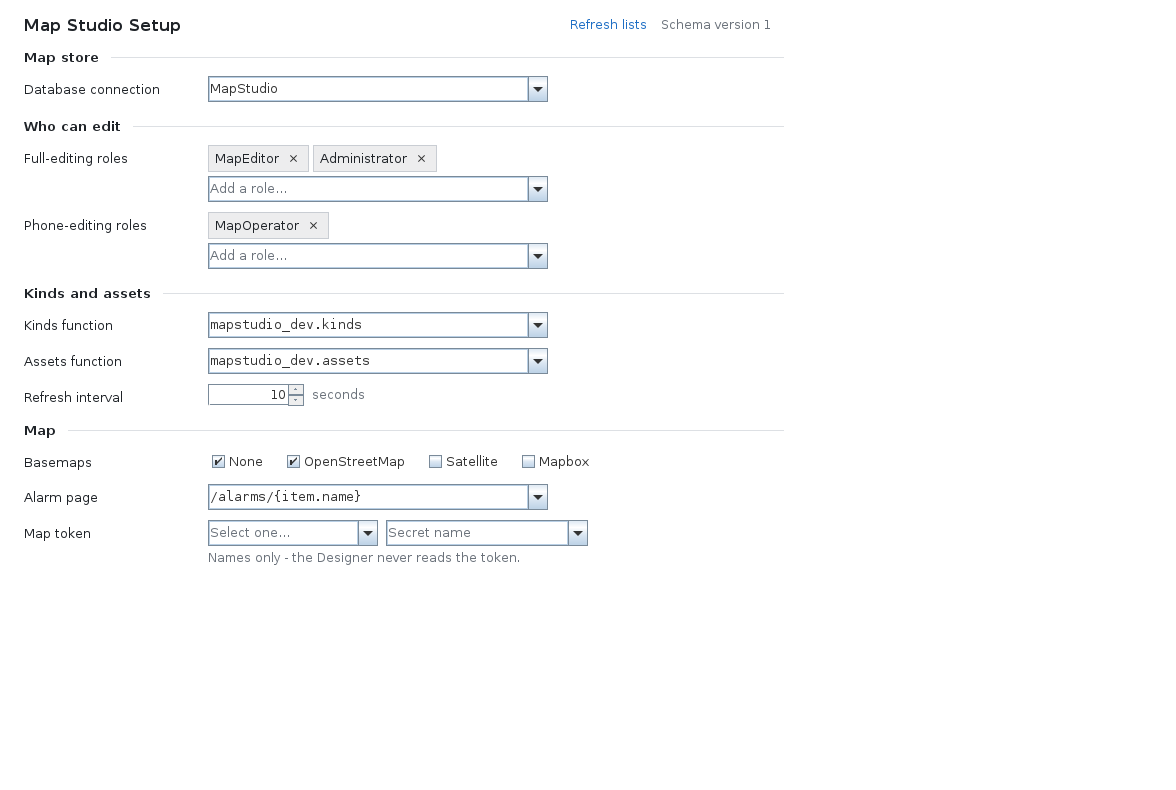
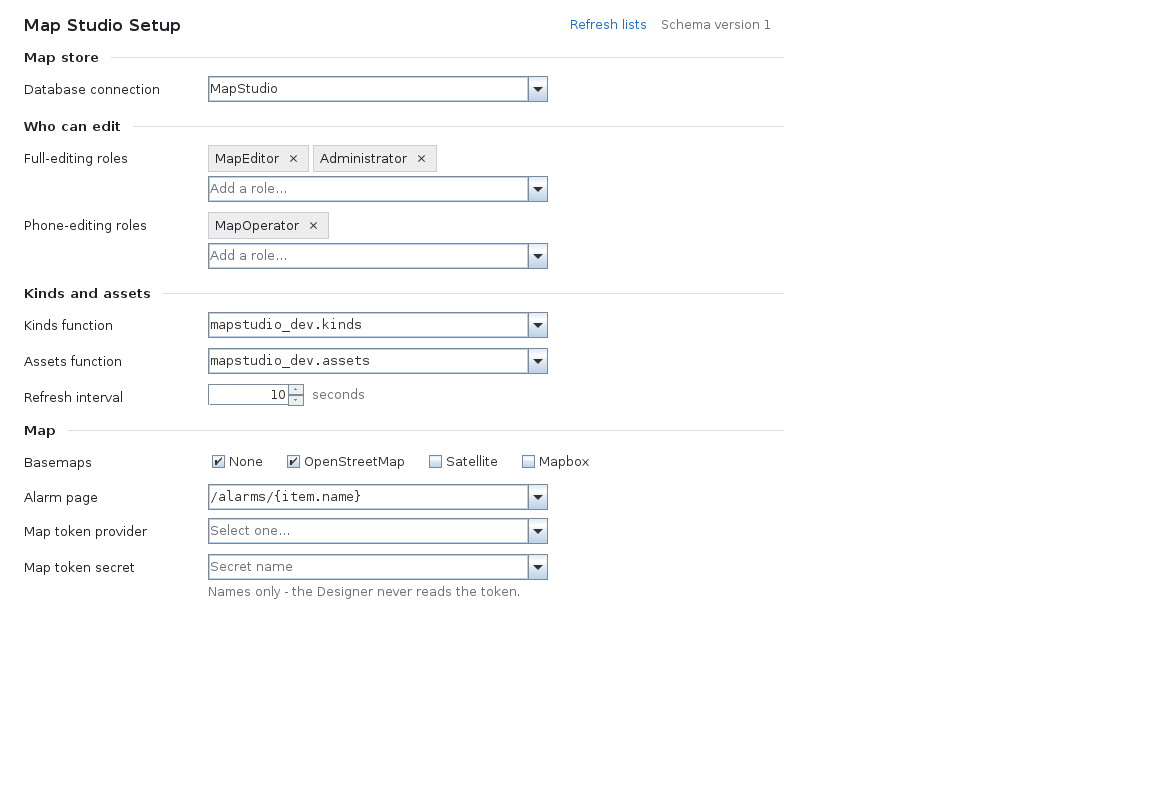
Owner review notes 4, 10, 31, 25 (the check): the dev page's empty-map hint, the showcase restores its states on open, the Designer's Map token as two rows, the contrast check over the quiet tile; e2e specs for 22, 25, 29, 32, 4 and 10 (work in progress)
Claude-Session: https://claude.ai/code/session_01F9eVq2cpkcDNszUXqy4YfF

Changed region(s): [[0.1531, 0.638, 0.5204, 0.7595], [0.0306, 0.6684, 0.1224, 0.7291]]

diff --git a/web/typescript/MapStudio.tsx b/web/typescript/MapStudio.tsx
@@ -1462,6 +1462,8 @@ export class MapStudio extends Component<Props, MapStudioState> {
         el.setAttribute('data-basemap-status', status);
         el.setAttribute('data-basemap-tiles', this.tiles);
         el.setAttribute('data-basemap-paint', JSON.stringify(rasterPaint(b.selected)));
+        // What OpenStreetMap is drawn with whatever the choice (item 25), for the contrast check's quiet raster sample.
+        el.setAttribute('data-quiet-paint', JSON.stringify(rasterPaint('osm')));
     }
 
     /**

diff --git a/designer/src/main/java/com/aoindustrial/perspective/mapstudio/designer/setup/SetupPanel.java b/designer/src/main/java/com/aoindustrial/perspective/mapstudio/designer/setup/SetupPanel.java
@@ -118,6 +118,12 @@ public final class SetupPanel extends JPanel {
     private final FormParts.Column empty = new FormParts.Column(Theme.FORM_MAX, Theme.TAB_PADDING, 8, 24);
     private final JButton create = new JButton(SetupForm.msg("setup.empty.create"));
 
+    /**
+     * The key of the second map token row (the secret name; item 31). Not a setup field: the value is
+     * {@link SetupForm#TOKEN_SECRET}, and the row takes the token warnings about the name.
+     */
+    static final String TOKEN_SECRET_NAME = SetupForm.TOKEN_SECRET + ".name";
+
     // Fields
     private final Map<String, FormParts.Row> rows = new LinkedHashMap<>();
     private final PickerField connection = new PickerField(this::connectionItems, false);
@@ -134,7 +140,6 @@ public final class SetupPanel extends JPanel {
     private final PickerField alarmPage = new PickerField(this::pageItems, true);
     private final PickerField provider = new PickerField(this::providerItems, false);
     private final PickerField secretName = new PickerField(this::secretNameItems, false);
-    private final FormParts.Flow token = new FormParts.Flow(8, 6);
     private final Timer secretNamesTimer = new Timer(400, e -> loadSecretNames());
 
     // Footer
@@ -286,10 +291,6 @@ public final class SetupPanel extends JPanel {
         for (String b : BASEMAPS) {
             basemapBoxes.put(b, basemapBox(b, SetupForm.msg("setup.basemap." + b)));
         }
-        provider.setFieldWidth(170);
-        secretName.setFieldWidth(202);
-        token.add(provider);
-        token.add(secretName);
 
         form.put(new FormParts.Heading(SetupForm.msg("setup.section.store")), 8);
         form.put(row(SetupForm.CONNECTION, connection, connection.labelTarget(), Theme.FIELD), 8);
@@ -304,12 +305,12 @@ public final class SetupPanel extends JPanel {
         form.put(new FormParts.Heading(SetupForm.msg("setup.section.map")), Theme.SECTION_GAP);
         form.put(row(SetupForm.BASEMAPS, basemaps, basemapBoxes.get("none"), 420), 8);
         form.put(row(SetupForm.ALARM_PAGE, alarmPage, alarmPage.labelTarget(), Theme.FIELD), Theme.ROW_GAP);
-        FormParts.Row tokenRow = row(SetupForm.TOKEN_SECRET, token, provider.labelTarget(), 380);
-        tokenRow.setNote(SetupForm.msg("setup.note.tokenSecret"));
-        secretName.labelTarget().getAccessibleContext().setAccessibleName(SetupForm.msg("setup.label.tokenSecret.name"));
-        provider.labelTarget().getAccessibleContext().setAccessibleName(
-            SetupForm.msg("setup.label.tokenSecret.provider"));
-        form.put(tokenRow, Theme.ROW_GAP);
+        // The map token as two labelled rows (owner review notes item 31): the provider, then the secret
+        // name with the "Names only" line under it; still one setup.json value, tokenSecret <provider>/<name>.
+        form.put(row(SetupForm.TOKEN_SECRET, provider, provider.labelTarget(), Theme.FIELD), 8);
+        FormParts.Row tokenNameRow = row(TOKEN_SECRET_NAME, secretName, secretName.labelTarget(), Theme.FIELD);
+        tokenNameRow.setNote(SetupForm.msg("setup.note.tokenSecret"));
+        form.put(tokenNameRow, Theme.ROW_GAP);
         center.add(formScroll, Mode.EDIT.name());
     }
 
@@ -384,6 +385,12 @@ public final class SetupPanel extends JPanel {
         FormParts.Row r = new FormParts.Row(label, control, width);
         rows.put(field, r);
         return r;
+    }
+
+    /** Whether a token warning is about the secret name ("Name the secret too.", "No secret named ..."). */
+    private static boolean aboutTheSecretName(String text, String[] token) {
+        return text.equals(SetupForm.msg("setup.warning.token.noName"))
+            || text.equals(SetupForm.msg("setup.warning.token.name", token[1], token[0]));
     }
 
     private String help(String field) {
@@ -829,10 +836,18 @@ public final class SetupPanel extends JPanel {
         }
         shownReasons = reasons;
         shownWarnings = warnings;
+        String[] tokenParts = SetupForm.splitToken(now.text(SetupForm.TOKEN_SECRET));
         for (Map.Entry<String, FormParts.Row> e : rows.entrySet()) {
             String field = e.getKey();
             List<String> r = reasons.getOrDefault(field, List.of());
             List<String> w = warnings.getOrDefault(field, List.of());
+            if (field.equals(SetupForm.TOKEN_SECRET) || field.equals(TOKEN_SECRET_NAME)) {
+                // The token's warnings go under the row they are about (item 31): the name's under the
+                // secret row, the rest under the provider row.
+                boolean nameRow = field.equals(TOKEN_SECRET_NAME);
+                w = warnings.getOrDefault(SetupForm.TOKEN_SECRET, List.of()).stream()
+                    .filter(t -> aboutTheSecretName(t, tokenParts) == nameRow).toList();
+            }
             List<FormParts.MessageLine> lines = new ArrayList<>();
             r.forEach(t -> lines.add(new FormParts.MessageLine().set(Theme.Glyph.ERROR, t, Theme.error(), Theme.font())));
             w.forEach(t -> lines.add(new FormParts.MessageLine().set(Theme.Glyph.WARNING, t, Theme.warning(),
@@ -870,7 +885,7 @@ public final class SetupPanel extends JPanel {
 
     private static boolean isPickerField(String field) {
         return field.equals(SetupForm.KINDS_FUNCTION) || field.equals(SetupForm.ASSETS_FUNCTION)
-            || field.equals(SetupForm.ALARM_PAGE) || field.equals(SetupForm.TOKEN_SECRET);
+            || field.equals(SetupForm.ALARM_PAGE) || field.equals(SetupForm.TOKEN_SECRET) || field.equals(TOKEN_SECRET_NAME);
     }
 
     /**
@@ -1167,7 +1182,12 @@ public final class SetupPanel extends JPanel {
         return formScroll;
     }
 
-    /** For tests: the help line under a field, if shown (only Map token has one). */
+    /** For tests: the message lines shown under a row (the warnings a row took; item 31 splits the token's). */
+    String rowMessageText(String field) {
+        return rows.get(field).messages.stream().map(FormParts.MessageLine::text).collect(java.util.stream.Collectors.joining(" "));
+    }
+
+    /** For tests: the help line under a field, if shown (only the Map token secret row has one). */
     String noteText(String field) {
         FormParts.Row r = rows.get(field);
         return r.note.isVisible() ? r.note.text() : "";

diff --git a/designer/src/test/java/com/aoindustrial/perspective/mapstudio/designer/setup/SetupPanelTest.java b/designer/src/test/java/com/aoindustrial/perspective/mapstudio/designer/setup/SetupPanelTest.java
@@ -283,7 +283,8 @@ class SetupPanelTest {
             assertFalse(panel.hasMark(f), f);
         }
         assertEquals("", panel.footerText());
-        assertEquals("Names only - the Designer never reads the token.", panel.noteText(SetupForm.TOKEN_SECRET));
+        assertEquals("Names only - the Designer never reads the token.", panel.noteText(SetupPanel.TOKEN_SECRET_NAME));
+        assertEquals("", panel.noteText(SetupForm.TOKEN_SECRET));
         assertEquals("", panel.noteText(SetupForm.CONNECTION));
         assertEquals(SetupForm.msg("setup.help.connection"), panel.label(SetupForm.CONNECTION).getToolTipText());
         assertEquals("Edit everything: drawing, kinds, import. Roles of the identity provider default, compared exactly.",
@@ -397,6 +398,15 @@ class SetupPanelTest {
     void theTokenIsAProviderAndASecretName() {
         SetupPanel panel = panel(null);
         panel.show(SetupForm.fromJson(VALID), false, "");
+        // Two labelled rows (owner review notes item 31): the provider, then the secret with the note under it.
+        assertEquals("Map token provider", panel.label(SetupForm.TOKEN_SECRET).getText());
+        assertEquals("Map token secret", panel.label(SetupPanel.TOKEN_SECRET_NAME).getText());
+        assertEquals("", panel.noteText(SetupForm.TOKEN_SECRET));
+        assertEquals("Names only - the Designer never reads the token.", panel.noteText(SetupPanel.TOKEN_SECRET_NAME));
+        layout(panel, 1176, 790);
+        assertTrue(panel.rowBounds(SetupPanel.TOKEN_SECRET_NAME).y > panel.rowBounds(SetupForm.TOKEN_SECRET).y,
+            "the secret row sits under the provider row");
+        assertEquals(panel.rowBounds(SetupForm.TOKEN_SECRET).x, panel.rowBounds(SetupPanel.TOKEN_SECRET_NAME).x);
         panel.pickProvider("Internal");
         panel.typeSecretName("mapbox-token");
         assertEquals("Internal/mapbox-token", panel.current().text(SetupForm.TOKEN_SECRET));
@@ -404,11 +414,24 @@ class SetupPanelTest {
         panel.typeSecretName("mapbox");
         assertEquals("No secret named mapbox in Internal. It is saved as typed.",
             panel.warningText(SetupForm.TOKEN_SECRET));
+        // The warning about the name sits under the secret row, and the provider row keeps nothing.
+        assertEquals("No secret named mapbox in Internal. It is saved as typed.", panel.rowMessageText(SetupPanel.TOKEN_SECRET_NAME));
+        assertEquals("", panel.rowMessageText(SetupForm.TOKEN_SECRET));
+        assertTrue(panel.hasMark(SetupPanel.TOKEN_SECRET_NAME));
+        assertFalse(panel.hasMark(SetupForm.TOKEN_SECRET));
+        panel.typeProvider("Nope");
+        assertEquals("Nope is not a secret provider of this Gateway. It is saved as typed.", panel.rowMessageText(SetupForm.TOKEN_SECRET));
         // A story 7 value with no "/" is the secret name, with a warning; an unchanged value keeps its bytes.
         SetupForm story7 = SetupForm.fromJson(VALID.replace("}}", "}, \"tokenSecret\": \"mapbox-token\"}"));
         panel.show(story7, false, "");
         assertEquals("Name the secret provider too.", panel.warningText(SetupForm.TOKEN_SECRET));
+        assertEquals("Name the secret provider too.", panel.rowMessageText(SetupForm.TOKEN_SECRET));
+        assertEquals("", panel.rowMessageText(SetupPanel.TOKEN_SECRET_NAME));
         assertEquals(story7, panel.current());
+        // A provider with no name: the warning under the secret row.
+        panel.show(SetupForm.fromJson(VALID.replace("}}", "}, \"tokenSecret\": \"Internal/\"}")), false, "");
+        assertEquals("Name the secret too.", panel.rowMessageText(SetupPanel.TOKEN_SECRET_NAME));
+        assertEquals("", panel.rowMessageText(SetupForm.TOKEN_SECRET));
         SetupForm slash = SetupForm.fromJson(VALID.replace("}}", "}, \"tokenSecret\": \"/odd\"}"));
         panel.show(slash, false, "");
         assertEquals(slash, panel.current());

diff --git a/ops/showcase/project/ignition/script-python/mapstudio_showcase/code.py b/ops/showcase/project/ignition/script-python/mapstudio_showcase/code.py
@@ -53,3 +53,39 @@ def kinds():
 def assets():
     """The showcase assets, one per demo site and instrument."""
     return [dict(a) for a in ASSETS]
+
+
+# The one showcase state a Gateway restart loses (owner review notes item 10): memory tags keep their
+# values, but not the Bad quality the seed gives SWD1's injection rate so it reads stale. The
+# Showcase and ShowcaseDark views' startup scripts call restore_states(), so the showcase is right
+# after any restart with no re-seed; the full seed stays the dev project's "Seed the dev map"
+# (mapstudio_showcase_seed, which sets this tag the same way).
+STALE_TAG = PREFIX + 'SWD1/InjectionRate'
+STALE_VALUE = 4200.0
+
+
+def restore_states():
+    """
+    Put back the showcase states a Gateway restart loses, when they are gone: SWD1's injection rate
+    at Bad quality (so SWD1 reads stale). Returns {restored: bool, quality: text} or {error}. Showcase
+    demo tags only; safe to call on every page open.
+    """
+    import java.lang
+    from com.inductiveautomation.ignition.common.model.values import BasicQualifiedValue, QualityCode
+    logger = system.util.getLogger('MapStudio.showcase')
+    result = {'restored': False}
+    try:
+        current = system.tag.readBlocking([STALE_TAG])[0]
+        result['quality'] = str(current.quality)
+        if current.quality.isGood():
+            quality = system.tag.writeBlocking([STALE_TAG], [BasicQualifiedValue(STALE_VALUE, QualityCode.Bad)], 5000)[0]
+            result['restored'] = True
+            result['quality'] = str(quality)
+            logger.info('Showcase states restored after a restart: SWD1 stale again (%s)' % quality)
+    except java.lang.Throwable as ex:
+        result['error'] = ex.getMessage()
+        logger.warn('Showcase states not restored: %s' % ex.getClass().getSimpleName())
+    except Exception as ex:
+        result['error'] = str(ex)
+        logger.warn('Showcase states not restored: %s' % type(ex).__name__)
+    return result

diff --git a/ops/project/ignition/script-python/mapstudio_showcase_seed/code.py b/ops/project/ignition/script-python/mapstudio_showcase_seed/code.py
@@ -292,3 +292,23 @@ def run(project=PROJECT, actor=ACTOR, api=None, make_id=seed_id):
     result = mapstudio_seed.run(project, actor, api, make_id, seed=seed_items(make_id), kind_setups=KIND_SETUPS)
     result['tags'] = set_states()
     return result
+
+
+def lose_states():
+    """
+    What a Gateway restart does to the showcase (owner review notes item 10): SWD1's injection rate
+    back at Good quality (a memory tag keeps its value across a restart, not the seed's Bad quality),
+    so e2e/tests/showcase.spec.mjs can check that the showcase page restores it as it opens
+    (mapstudio_showcase.restore_states in the showcase project). Returns {quality} or {error}.
+    """
+    logger = _logger()
+    result = {}
+    try:
+        result['quality'] = _write(SHOWCASE_PREFIX + STALE_TAG, 4200.0)
+    except java.lang.Throwable as ex:
+        result['error'] = ex.getMessage()
+        logger.warn('Showcase state not lost: %s' % ex.getClass().getSimpleName())
+    except Exception as ex:
+        result['error'] = str(ex)
+        logger.warn('Showcase state not lost: %s' % type(ex).__name__)
+    return result
